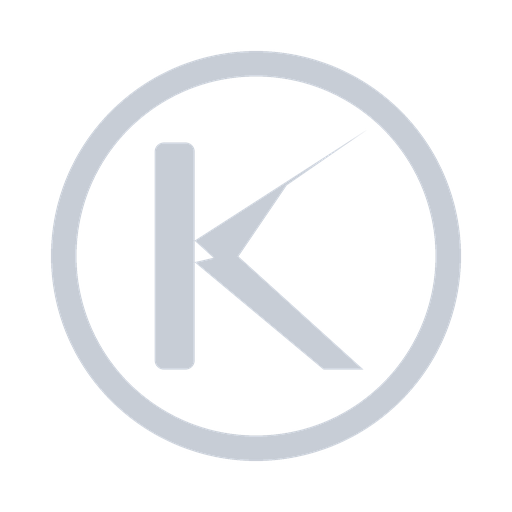
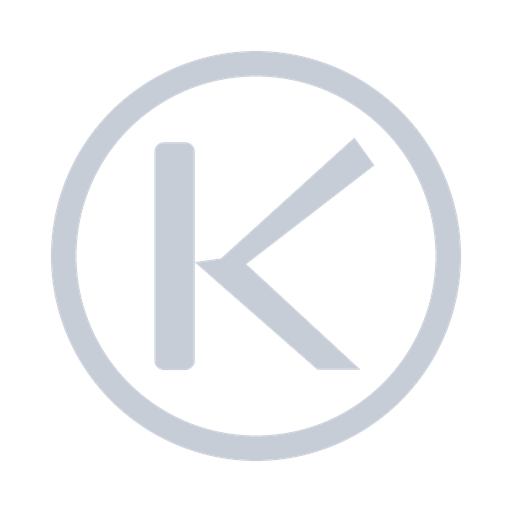
ISI-5779: round 3.2b — K1 ramp-up as the glowing signal (board feedback)
Henrik: liked the ramp-up top of the letter; use K1 with it. Reworked all 4
signal marks to two-tone — stem+leg silver (structure), ascending ramp = glowing
accent signal. Enhanced ascending ramp geometry; glow via GaussianBlur (PNG) /
feGaussianBlur (SVG). Diamond now night-field + glowing edge (not knockout) so the
ramp pops. Board round-3.2b copy + SVG twins updated. 16px re-tested.

diff --git a/brand/knightload/kl_signal_svg.py b/brand/knightload/kl_signal_svg.py
@@ -1,9 +1,9 @@
 #!/usr/bin/env python3
-"""kl_signal_svg.py — production SVG twins of the LOAD-SIGNAL marks (ISI-5779 r3.2).
+"""kl_signal_svg.py — SVG twins of the LOAD-SIGNAL marks (ISI-5779 round 3.2b).
 
-viewBox 0 0 1000 1000. Houses the approved round-3.1 Ramp-K glyph inside the
-signal containers. Gradients (night / glow / beam) via <linearGradient> /
-<radialGradient>; the diamond knockout is an over-drawn night-colour K."""
+Two-tone Ramp-K: stem+leg = silver structure, the ascending ramp (upper arm) =
+glowing accent "signal" (the feature Henrik called out). viewBox 0 0 1000 1000.
+Glow via <filter> feGaussianBlur; containers filled with night gradient."""
 import os, math
 
 OUT = os.path.join(os.path.dirname(__file__), "svg")
@@ -13,34 +13,34 @@ CYAN, AMBER, SILVER = "#2EE6D6", "#FFB23E", "#C7CDD6"
 INDIGO0, INDIGO1 = "#1A1A2E", "#16213E"
 NIGHT_TOP, NIGHT_BOT = "#14162A", "#22305A"
 
-# Ramp-K local geometry (unit tile), from kl_k.k_ramp
-STEM = (0.17, 0.13, 0.30, 0.87)
-LEG = [(0.30, 0.52), (0.72, 0.87), (0.85, 0.87), (0.43, 0.49)]
-RAMP = [(0.30, 0.45), (0.86, 0.09), (0.60, 0.27), (0.41, 0.55)]
-JUNCTION = (0.30, 0.49)
-TIP = (0.86, 0.09)
+RK_STEM = (0.17, 0.13, 0.30, 0.87)
+RK_LEG = [(0.30, 0.52), (0.70, 0.87), (0.84, 0.87), (0.44, 0.50)]
+RK_RAMP = [(0.345, 0.545), (0.82, 0.115), (0.885, 0.205), (0.405, 0.575)]
+JUNCTION = (0.375, 0.56)
+TIP = (0.85, 0.16)
 
 
 def _map(frac, lx, ly):
-    tile = frac * S
-    o = (S - tile) / 2
+    tile = frac * S; o = (S - tile) / 2
     return (o + lx * tile, o + ly * tile)
 
 
-def _poly(pts, fill, extra=""):
-    s = " ".join(f"{x:.1f},{y:.1f}" for x, y in pts)
-    return f'<polygon points="{s}" fill="{fill}" {extra}/>'
+def _polystr(pts):
+    return " ".join(f"{x:.1f},{y:.1f}" for x, y in pts)
 
 
-def k_shapes(frac, fill, drop_upper=False):
+def k_shapes(frac, base, ramp, draw_ramp=True, glow=False):
     tile = frac * S
-    x0, y0 = _map(frac, STEM[0], STEM[1])
-    x1, y1 = _map(frac, STEM[2], STEM[3])
+    x0, y0 = _map(frac, RK_STEM[0], RK_STEM[1])
+    x1, y1 = _map(frac, RK_STEM[2], RK_STEM[3])
     out = [f'<rect x="{x0:.1f}" y="{y0:.1f}" width="{x1-x0:.1f}" height="{y1-y0:.1f}" '
-           f'rx="{0.03*tile:.1f}" fill="{fill}"/>']
-    out.append(_poly([_map(frac, *p) for p in LEG], fill))
-    if not drop_upper:
-        out.append(_poly([_map(frac, *p) for p in RAMP], fill))
+           f'rx="{0.03*tile:.1f}" fill="{base}"/>']
+    out.append(f'<polygon points="{_polystr([_map(frac,*p) for p in RK_LEG])}" fill="{base}"/>')
+    if draw_ramp:
+        rp = _polystr([_map(frac, *p) for p in RK_RAMP])
+        if glow:
+            out.append(f'<polygon points="{rp}" fill="{ramp}" filter="url(#glow)" opacity="0.6"/>')
+        out.append(f'<polygon points="{rp}" fill="{ramp}"/>')
     return "".join(out)
 
 
@@ -50,88 +50,77 @@ def _hdr(title):
             f'  <title>Knightload — {title}</title>\n')
 
 
+def _glowfilter():
+    return ('  <filter id="glow" x="-40%" y="-40%" width="180%" height="180%">'
+            '<feGaussianBlur stdDeviation="14"/></filter>\n')
+
+
+def _night(gid):
+    return (f'    <linearGradient id="{gid}" x1="0" y1="0" x2="0" y2="1">'
+            f'<stop offset="0%" stop-color="{NIGHT_TOP}"/>'
+            f'<stop offset="100%" stop-color="{NIGHT_BOT}"/></linearGradient>\n')
+
+
 def _diamond_pts(cx, cy, hw, hh):
     return [(cx, cy - hh), (cx + hw, cy), (cx, cy + hh), (cx - hw, cy)]
 
 
-# ------------------------------------------------------------- 1 signal-circle
 def svg_circle(accent=CYAN):
     cx = cy = 500; R = 400; f = 0.60
     s = _hdr("Signal Circle")
-    s += ('  <defs>\n'
-          '    <radialGradient id="glowC" cx="50%" cy="50%" r="50%">\n'
-          f'      <stop offset="0%" stop-color="{accent}" stop-opacity="0.45"/>\n'
-          f'      <stop offset="100%" stop-color="{accent}" stop-opacity="0"/>\n'
-          '    </radialGradient>\n'
-          '    <linearGradient id="nightC" x1="0" y1="0" x2="0" y2="1">\n'
-          f'      <stop offset="0%" stop-color="{NIGHT_TOP}"/>\n'
-          f'      <stop offset="100%" stop-color="{NIGHT_BOT}"/>\n'
-          '    </linearGradient>\n  </defs>\n')
-    s += f'  <circle cx="{cx}" cy="{cy}" r="{R}" fill="url(#nightC)"/>\n'
+    s += "  <defs>\n" + _night("nC") + _glowfilter() + "  </defs>\n"
+    s += f'  <circle cx="{cx}" cy="{cy}" r="{R}" fill="url(#nC)"/>\n'
     s += f'  <circle cx="{cx}" cy="{cy}" r="{R}" fill="none" stroke="{accent}" stroke-width="22"/>\n'
-    s += f'  <circle cx="{cx}" cy="{cy}" r="{R*0.82:.0f}" fill="url(#glowC)"/>\n'
-    s += "  " + k_shapes(f, accent) + "\n</svg>\n"
+    s += "  " + k_shapes(f, SILVER, accent, glow=True) + "\n</svg>\n"
     return s
 
 
-# ------------------------------------------------------------ 2 signal-diamond
 def svg_diamond(accent=CYAN, mono=False):
     cx, cy, hw, hh = 500, 500, 400, 460
     dia = _diamond_pts(cx, cy, hw, hh)
     if mono:
         s = _hdr("Signal Diamond (mono)")
-        s += f'  <polygon points="{" ".join(f"{x:.0f},{y:.0f}" for x,y in dia)}" fill="none" stroke="{SILVER}" stroke-width="40" stroke-linejoin="round"/>\n'
-        s += "  " + k_shapes(0.55, SILVER) + "\n</svg>\n"
+        s += f'  <polygon points="{_polystr(dia)}" fill="none" stroke="{SILVER}" stroke-width="40" stroke-linejoin="round"/>\n'
+        s += "  " + k_shapes(0.552, SILVER, SILVER) + "\n</svg>\n"
         return s
     s = _hdr("Signal Diamond")
-    s += ('  <defs>\n'
-          '    <radialGradient id="glowD" cx="50%" cy="46%" r="62%">\n'
-          f'      <stop offset="0%" stop-color="{accent}"/>\n'
-          f'      <stop offset="100%" stop-color="{INDIGO1}"/>\n'
-          '    </radialGradient>\n  </defs>\n')
-    s += f'  <polygon points="{" ".join(f"{x:.0f},{y:.0f}" for x,y in dia)}" fill="url(#glowD)" stroke="{accent}" stroke-width="18" stroke-linejoin="round"/>\n'
-    # Ramp-K knocked out in night colour
-    s += "  " + k_shapes(0.55, INDIGO0) + "\n</svg>\n"
+    s += "  <defs>\n" + _night("nD") + _glowfilter() + "  </defs>\n"
+    s += f'  <polygon points="{_polystr(dia)}" fill="url(#nD)" stroke="{accent}" stroke-width="18" stroke-linejoin="round"/>\n'
+    s += "  " + k_shapes(0.552, SILVER, accent, glow=True) + "\n</svg>\n"
     return s
 
 
-# ------------------------------------------------------------ 3 signal-minimal
 def svg_minimal(col=SILVER):
     cx = cy = 500; R = 400
     s = _hdr("Signal Minimal")
     s += f'  <circle cx="{cx}" cy="{cy}" r="{R}" fill="none" stroke="{col}" stroke-width="50"/>\n'
-    s += "  " + k_shapes(0.60, col) + "\n</svg>\n"
+    s += "  " + k_shapes(0.60, col, col) + "\n</svg>\n"
     return s
 
 
-# -------------------------------------------------------------- 4 signal-kray
 def svg_kray(accent=CYAN):
     cx, cy, hw, hh = 500, 500, 400, 460
     dia = _diamond_pts(cx, cy, hw, hh)
-    f = 0.55
+    f = 0.552
     jx, jy = _map(f, *JUNCTION)
     tx, ty = _map(f, *TIP)
     dx, dy = tx - jx, ty - jy
     L = math.hypot(dx, dy); ux, uy = dx / L, dy / L
     px, py = -uy, ux
-    blen = 600; w0, w1 = 30, 105
+    blen = 620; w0, w1 = 35, 110
     e = (jx + ux * blen, jy + uy * blen)
     beam = [(jx + px * w0, jy + py * w0), (e[0] + px * w1, e[1] + py * w1),
             (e[0] - px * w1, e[1] - py * w1), (jx - px * w0, jy - py * w0)]
     s = _hdr("Signal K-Ray")
-    s += ('  <defs>\n'
-          '    <linearGradient id="nightK" x1="0" y1="0" x2="0" y2="1">\n'
-          f'      <stop offset="0%" stop-color="{NIGHT_TOP}"/>\n'
-          f'      <stop offset="100%" stop-color="{NIGHT_BOT}"/>\n    </linearGradient>\n'
-          f'    <linearGradient id="beamK" gradientUnits="userSpaceOnUse" '
-          f'x1="{jx:.0f}" y1="{jy:.0f}" x2="{e[0]:.0f}" y2="{e[1]:.0f}">\n'
-          f'      <stop offset="0%" stop-color="{accent}" stop-opacity="1"/>\n'
-          f'      <stop offset="100%" stop-color="{accent}" stop-opacity="0"/>\n'
-          '    </linearGradient>\n  </defs>\n')
-    s += f'  <polygon points="{" ".join(f"{x:.0f},{y:.0f}" for x,y in dia)}" fill="url(#nightK)" stroke="{accent}" stroke-width="16" stroke-linejoin="round"/>\n'
-    s += "  " + k_shapes(f, SILVER, drop_upper=True) + "\n"
-    s += "  " + _poly(beam, "url(#beamK)") + "\n"
-    s += f'  <circle cx="{jx:.0f}" cy="{jy:.0f}" r="28" fill="{accent}"/>\n</svg>\n'
+    s += "  <defs>\n" + _night("nK")
+    s += (f'    <linearGradient id="beamK" gradientUnits="userSpaceOnUse" '
+          f'x1="{jx:.0f}" y1="{jy:.0f}" x2="{e[0]:.0f}" y2="{e[1]:.0f}">'
+          f'<stop offset="0%" stop-color="{accent}" stop-opacity="1"/>'
+          f'<stop offset="100%" stop-color="{accent}" stop-opacity="0"/></linearGradient>\n  </defs>\n')
+    s += f'  <polygon points="{_polystr(dia)}" fill="url(#nK)" stroke="{accent}" stroke-width="16" stroke-linejoin="round"/>\n'
+    s += "  " + k_shapes(f, SILVER, SILVER, draw_ramp=False) + "\n"
+    s += f'  <polygon points="{_polystr(beam)}" fill="url(#beamK)"/>\n'
+    s += f'  <circle cx="{jx:.0f}" cy="{jy:.0f}" r="26" fill="{accent}"/>\n</svg>\n'
     return s
 
 

diff --git a/brand/knightload/kl_signal.py b/brand/knightload/kl_signal.py
@@ -22,7 +22,7 @@ no DC-trademark proximity. Dark night palette, ONE accent glow (teal default /
 amber alt). Pure Pillow + DejaVu (no cairo/resvg) — same stack as ISI-5724.
 """
 import math
-from PIL import Image, ImageDraw
+from PIL import Image, ImageDraw, ImageFilter
 import kl_brand as k
 import kl_k
 
@@ -124,29 +124,60 @@ def _anchor(ox, oy, ksz, local):
     return (ox + local[0] * ksz, oy + local[1] * ksz)
 
 
+# ---- enhanced two-tone Ramp-K: stem+leg = structure, upper arm = ascending ----
+# ---- ramp (the "signal"). Ramp thickens toward the top-right so it reads as a
+# ---- throughput ramp-up (the feature Henrik called out).
+RK_STEM = (0.17, 0.13, 0.30, 0.87)
+RK_LEG = [(0.30, 0.52), (0.70, 0.87), (0.84, 0.87), (0.44, 0.50)]
+RK_RAMP = [(0.345, 0.545), (0.82, 0.115), (0.885, 0.205), (0.405, 0.575)]
+RK_JUNCTION = (0.375, 0.56)
+RK_TIP = (0.85, 0.16)
+
+
+def _pl(frac, lx, ly, W):
+    tile = frac * W
+    o = (W - tile) / 2
+    return (o + lx * tile, o + ly * tile)
+
+
+def _draw_rampK(img, W, frac, base, ramp, draw_ramp=True, glow_col=None):
+    """Draw the two-tone Ramp-K. stem+leg in `base`, ascending ramp in `ramp`
+    (optionally with a soft glow). Returns (junction_px, tip_px)."""
+    d = ImageDraw.Draw(img)
+    x0, y0 = _pl(frac, RK_STEM[0], RK_STEM[1], W)
+    x1, y1 = _pl(frac, RK_STEM[2], RK_STEM[3], W)
+    d.rounded_rectangle([x0, y0, x1, y1], radius=0.03 * frac * W, fill=base + (255,))
+    d.polygon([_pl(frac, p[0], p[1], W) for p in RK_LEG], fill=base + (255,))
+    ramp_px = [_pl(frac, p[0], p[1], W) for p in RK_RAMP]
+    if draw_ramp:
+        if glow_col is not None:
+            gl = Image.new("RGBA", (W, W), (0, 0, 0, 0))
+            ImageDraw.Draw(gl).polygon(ramp_px, fill=glow_col + (150,))
+            gl = gl.filter(ImageFilter.GaussianBlur(radius=int(W * 0.018)))
+            img.alpha_composite(gl)
+            d = ImageDraw.Draw(img)
+        d.polygon(ramp_px, fill=ramp + (255,))
+    return _pl(frac, *RK_JUNCTION, W), _pl(frac, *RK_TIP, W)
+
+
 # ============================================================ 1 · signal-circle
+# Night roundel. Structure (stem+leg) in silver; the ascending RAMP is the glowing
+# accent signal — K1's ramp-up top is the hero element.
 def sig_circle(size, accent=CYAN, mono=False):
     img, d, W = _tile(size)
     cx = cy = W * 0.5
     R = W * 0.40
     if mono:
         d.ellipse([cx - R, cy - R, cx + R, cy + R], outline=SILVER + (255,), width=int(W * 0.045))
-        stamp, _ = _kstamp(W, KFRAC, SILVER)
-        img.alpha_composite(stamp)
+        _draw_rampK(img, W, KFRAC, SILVER, SILVER)
         return _finish(img, size)
-    # slim signal shaft rising behind (projected into the night, not wings)
-    img.alpha_composite(_beam(W, cx, cy - R * 0.1, W * 0.04, R * 0.16, R * 0.42, accent, 120, 0))
-    # night roundel
+    img.alpha_composite(_beam(W, cx, cy - R * 0.1, W * 0.04, R * 0.16, R * 0.42, accent, 110, 0))
     mask = Image.new("L", (W, W), 0)
     ImageDraw.Draw(mask).ellipse([cx - R, cy - R, cx + R, cy + R], fill=255)
     night = _vgrad(W, NIGHT_TOP, NIGHT_BOT); night.putalpha(mask)
     img.alpha_composite(night)
-    # rim ring (accent)
     d.ellipse([cx - R, cy - R, cx + R, cy + R], outline=accent + (255,), width=int(W * 0.022))
-    # glow behind K + glowing accent Ramp-K
-    img.alpha_composite(_radial(W, cx, cy, R * 0.82, accent, 110))
-    stamp, _ = _kstamp(W, KFRAC, accent)
-    img.alpha_composite(stamp)
+    _draw_rampK(img, W, KFRAC, SILVER, accent, glow_col=accent)
     return _finish(img, size)
 
 
@@ -158,23 +189,21 @@ def sig_diamond(size, accent=CYAN, mono=False):
     dia = _diamond(cx, cy, hw, hh)
     if mono:
         d.line(dia + [dia[0]], fill=SILVER + (255,), width=int(W * 0.04), joint="curve")
-        stamp, _ = _kstamp(W, KFRAC * 0.92, SILVER)
-        img.alpha_composite(stamp)
+        _draw_rampK(img, W, KFRAC * 0.92, SILVER, SILVER)
         return _finish(img, size)
-    # glowing diamond: accent radial field inside the diamond
+    # night-gradient diamond with a glowing accent edge (the signal frame)
     mask = Image.new("L", (W, W), 0)
     ImageDraw.Draw(mask).polygon(dia, fill=255)
-    field = _radial(W, cx, cy * 0.92, hh * 1.15, accent, 255, power=1.1)
-    base = Image.new("RGBA", (W, W), INDIGO1 + (255,))
-    glow = Image.alpha_composite(base, field)
-    glow.putalpha(mask)
-    img.alpha_composite(glow)
-    # crisp accent edge
+    night = _vgrad(W, NIGHT_TOP, NIGHT_BOT); night.putalpha(mask)
+    img.alpha_composite(night)
+    # soft inner edge glow + crisp accent edge
+    edge = Image.new("RGBA", (W, W), (0, 0, 0, 0))
+    ImageDraw.Draw(edge).line(dia + [dia[0]], fill=accent + (255,), width=int(W * 0.05), joint="curve")
+    edge = Image.composite(edge, Image.new("RGBA", (W, W), (0, 0, 0, 0)), mask)
+    img.alpha_composite(edge.filter(ImageFilter.GaussianBlur(radius=int(W * 0.012))))
     d.line(dia + [dia[0]], fill=accent + (255,), width=int(W * 0.018), joint="curve")
-    # Ramp-K knocked out in night colour (negative space)
-    stamp, _ = _kstamp(W, KFRAC * 0.92, (255, 255, 255))
-    night_k = Image.new("RGBA", (W, W), INDIGO0 + (255,))
-    img = Image.alpha_composite(img, Image.composite(night_k, Image.new("RGBA", (W, W), (0, 0, 0, 0)), stamp.split()[3]))
+    # two-tone Ramp-K: silver structure, glowing accent ramp
+    _draw_rampK(img, W, KFRAC * 0.92, SILVER, accent, glow_col=accent)
     return _finish(img, size)
 
 
@@ -185,8 +214,8 @@ def sig_minimal(size, accent=SILVER, mono=True):
     R = W * 0.40
     col = SILVER if mono else accent
     d.ellipse([cx - R, cy - R, cx + R, cy + R], outline=col + (255,), width=int(W * 0.05))
-    stamp, _ = _kstamp(W, KFRAC, col)
-    img.alpha_composite(stamp)
+    # keep the ramp slightly distinct even in mono via shape; one colour overall
+    _draw_rampK(img, W, KFRAC, col, col)
     return _finish(img, size)
 
 
@@ -197,7 +226,6 @@ def sig_kray(size, accent=CYAN, mono=False):
     hw, hh = W * 0.40, W * 0.46
     dia = _diamond(cx, cy, hw, hh)
     col = SILVER if mono else accent
-    # night diamond
     if not mono:
         mask = Image.new("L", (W, W), 0)
         ImageDraw.Draw(mask).polygon(dia, fill=255)
@@ -206,31 +234,28 @@ def sig_kray(size, accent=CYAN, mono=False):
         d.line(dia + [dia[0]], fill=accent + (255,), width=int(W * 0.016), joint="curve")
     else:
         d.line(dia + [dia[0]], fill=SILVER + (255,), width=int(W * 0.035), joint="curve")
-    # Ramp-K stem+leg in silver; upper ramp arm becomes a projector beam escaping
-    kcol = SILVER
+    # stem+leg silver; the ascending RAMP continues out as a projector beam
     frac = KFRAC * 0.92
-    stamp, (ox, oy, ksz) = _kstamp(W, frac, kcol, drop_upper=True)
-    img.alpha_composite(stamp)
-    jx, jy = _anchor(ox, oy, ksz, _K_JUNCTION)
-    tx, ty = _anchor(ox, oy, ksz, _K_TIP)
+    (jx, jy), (tx, ty) = _draw_rampK(img, W, frac, SILVER, SILVER, draw_ramp=False)
+    d = ImageDraw.Draw(img)
     dx, dy = tx - jx, ty - jy
     L = math.hypot(dx, dy); ux, uy = dx / L, dy / L
     px, py = -uy, ux
-    beamlen = W * 0.60
-    w0, w1 = W * 0.03, W * 0.105
+    beamlen = W * 0.62
+    w0, w1 = W * 0.035, W * 0.11   # thin at junction -> wide at the far end (ramp-up)
     bl = Image.new("RGBA", (W, W), (0, 0, 0, 0))
     bd = ImageDraw.Draw(bl)
-    nseg = 60
+    nseg = 64
     for i in range(nseg):
         t0, t1 = i / nseg, (i + 1) / nseg
-        a = int(255 * (1 - t0) ** 1.25)
+        a = int(255 * (1 - t0) ** 1.2)
         ww0 = w0 + (w1 - w0) * t0
         ww1 = w0 + (w1 - w0) * t1
         s = (jx + ux * beamlen * t0, jy + uy * beamlen * t0)
         e = (jx + ux * beamlen * t1, jy + uy * beamlen * t1)
         bd.polygon([(s[0] + px * ww0, s[1] + py * ww0), (e[0] + px * ww1, e[1] + py * ww1),
                     (e[0] - px * ww1, e[1] - py * ww1), (s[0] - px * ww0, s[1] - py * ww0)],
-                   fill=(col if not mono else SILVER) + (a,))
+                   fill=(SILVER if mono else accent) + (a,))
     img.alpha_composite(bl)
     d.ellipse([jx - W * 0.028, jy - W * 0.028, jx + W * 0.028, jy + W * 0.028], fill=col + (255,))
     return _finish(img, size)

diff --git a/brand/knightload/kl_signal_render.py b/brand/knightload/kl_signal_render.py
@@ -14,13 +14,13 @@ INDIGO0, INDIGO1, INDIGO2 = k.INDIGO0, k.INDIGO1, k.INDIGO2
 
 DIRS = [
     ("1", "Signal Circle", s.sig_circle,
-     "K glowing in a night roundel · halo + slim rising signal shaft.", False),
+     "Night roundel; the K's ascending ramp-up glows as the signal + a slim rising shaft.", False),
     ("2", "Signal Diamond", s.sig_diamond,
-     "K knocked out of a glowing lozenge — projector beam, plot-point & badge in one.", True),
+     "Night lozenge with a glowing edge; the K's ramp-up fires as the lit signal inside (beam / plot-point / badge).", True),
     ("3", "Signal Minimal", s.sig_minimal,
-     "Circle + K, thin stroke, monochrome. The signal reduced to essence — 16px-proof.", False),
+     "Circle + K, thin monochrome stroke. The signal reduced to essence — 16px-proof.", False),
     ("4", "Signal K-Ray", s.sig_kray,
-     "The K's ascending arm fires off as a beam escaping the lozenge — load curve + signal.", False),
+     "The K's ascending ramp continues out as a projector beam escaping the lozenge — load curve + signal.", False),
 ]
 
 
@@ -63,8 +63,8 @@ def board():
     d = ImageDraw.Draw(img)
     d.text((60, 44), "KNIGHTLOAD", font=k.font(58, bold=True), fill=SILVER + (255,))
     k.tracked_text(d, (62, 116),
-                   "THE  LOAD-SIGNAL  ·  round 3.2  ·  the signal lights up, the knight answers  ·  pick one",
-                   k.font(24, bold=True), CYAN + (255,), tracking=3)
+                   "THE  LOAD-SIGNAL  ·  round 3.2b  ·  the K's ramp-up IS the signal (glows at night)  ·  pick one",
+                   k.font(23, bold=True), CYAN + (255,), tracking=2)
     d.line([60, 162, W - 60, 162], fill=INDIGO2 + (255,), width=3)
     colw = (W - 120) // 4
     y0 = 196
